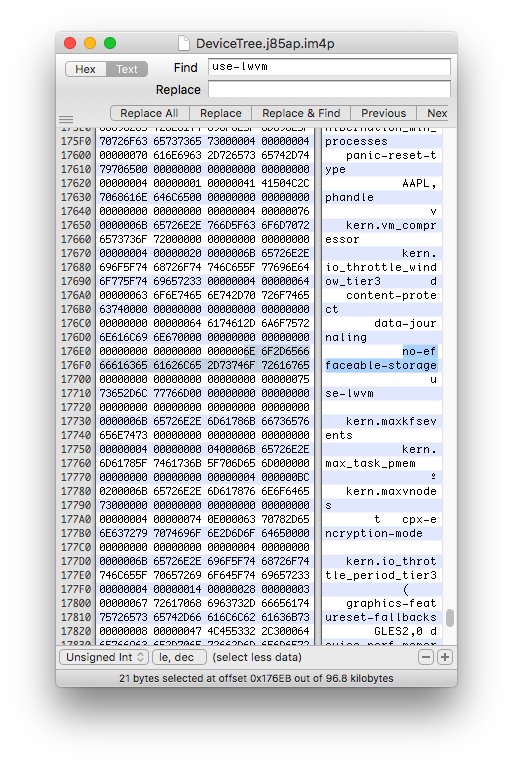
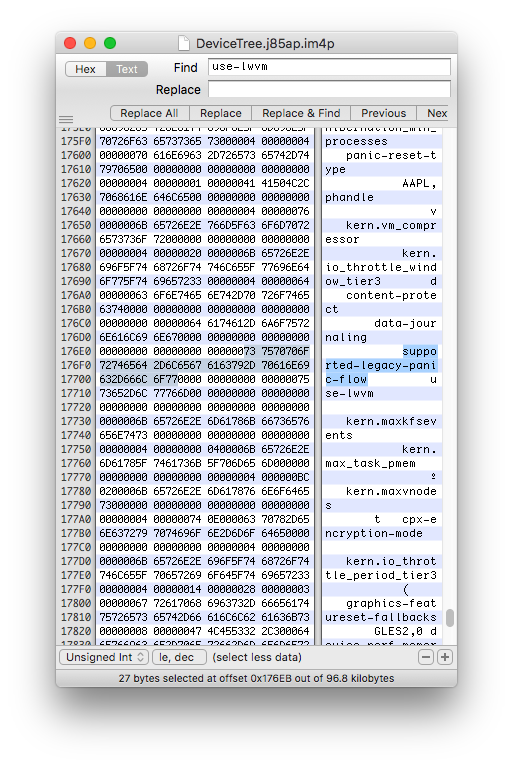
small update

diff --git a/dualboot/first-boot.html b/dualboot/first-boot.html
@@ -23,7 +23,7 @@ Otherwise, for booting the second iOS install, iBEC needs an arg which will poin
 Add rd=disk0s1s3 (or your new system partition disk) and -v args to iBEC:
 <p class="cli">iBoot64Patcher iBEC.dec iBEC.patched -b “rd=disk0s1s3 -v”</p>
 
-</br><img class="align" src="images/Image9.png"></br>
+</br><img class="align" src="images/Image10.png"></br>
 
 Now pack them back into img4: 
 
@@ -34,10 +34,10 @@ For booting the second OS, Sign stock kernelcache ,applelogo and trustcache (on 
 <p class="cli">img4 -i *.im4p -o *.img4 -M IM4M</p>
 
 Note: you can find trustcache name in BuildManifest.plist</br>
-</br><img class="align" src="images/Image10.png"></br>
+</br><img class="align" src="images/Image11.png"></br>
 
 </br>Pack devicetree into img4 with rdtr (RestoreDevicetree) tag. The devicetree needs this tag, otherwise iBEC will refuse to see it as valid:
-<p class="cli">img4 -i devicetree.raw -o devicetree.img4 -M IM4M -T rdtr</p>
+<p class="cli">img4 -i DeviceTree.* -o devicetree.img4 -M IM4M -T rdtr</p>
 
 Done!</br>
 
@@ -67,7 +67,7 @@ Send kernelcache and bootx:
 
 <h2>In the case of generating keybags: </h2>
 If you see “AppleKeyStore: disabling use of effaceable storage, using fake key”, in verbose output, you can reboot to first system.</br>
-<img class="align" src="images/Image11.png"></br>
+<img class="align" src="images/Image12.png"></br>
     
     Now mount disk0s1s3 and put keybagd in its original place:
     <p class="cli">mv /mnt1/usr/libexec/keybagd_bak /mnt1/usr/libexec/keybagd</p>

diff --git a/dualboot/making-ramdisk.html b/dualboot/making-ramdisk.html
@@ -35,14 +35,16 @@
 	
 	<p class="cli">img4tool -e -s *.shsh2 -m IM4M</p>
 
-Compress kernelcache back to lzss and pack it into img4:
+    Create a patch file: </br>
+    
+    <img src="images/Image5.png"> </br>
+
+    And apply it using img4:
 		
-    <p class="cli">relzss kcache.raw kcache.lzss</p>
-    <p class="cli">img4 -i kcache.lzss -o kernelcache.img4 -M IM4M -A -T rkrn</p>
-	
+    <p class="cli">img4 -i kernelcache.realease.* -o kernelcache.img4 -M IM4M -A -T rkrn -P patch_file</p>
 	
     <h2>Adding needed binaries</h2>
-    The custom ramdisk has to execute apfs_invert, so we need to make changes it's filesystem so it will execute our custom binary.
+    The custom ramdisk has to execute apfs_invert, so we need to make changes to it's filesystem so it will execute our custom binary.
     <p>Unpack original ramdisk into raw dmg:<p>
 	<p class="cli">img4 -i xxx.xxx.xxx.dmg -o ramdisk.dmg</p>
     And mount it:
@@ -62,7 +64,7 @@ Compress kernelcache back to lzss and pack it into img4:
 	
 	<p>If you did everything correctly ramdisk should boot and run apfs_invert (don’t forget to send trustcache on iOS 12+).</br>
 	
-    </br><img class="limit" src="images/Image5.jpeg"></br></br>
+    </br><img class="limit" src="images/Image6.jpeg"></br></br>
         <center>Next part → <a href="modifying-filesystem.html" class="link"></b>Modifying filesystem</a></center></br>
 </p>
 </div>

diff --git a/dualboot/no-effaceable-storage.html b/dualboot/no-effaceable-storage.html
@@ -13,9 +13,9 @@
     <p>If you choose to generate it, continue here.<p>
     <h3>Patching devicetree</h3>
     We have to add no-effaceable-storage property.</br>
-    <img class="align" src="images/Image7.png"></br>
+    <img class="align" src="images/Image8.png"></br>
         Check "use-lwvm" property and add no-effaceable-storage property above it.</br>
-        <img class="align" src="images/Image8.png"></br>
+        <img class="align" src="images/Image9.png"></br>
             I replaced “supported-legacy-panic-flow” instead of adding it, but it’s better adding it.</p>
 <h3>Adding fixkeybag</h3>
 <p>Thanks to @nyan_satan for this technique.

diff --git a/dualboot/modifying-filesystem.html b/dualboot/modifying-filesystem.html
@@ -10,7 +10,7 @@
 Modify fstab using nano:
 <p class="cli">cp -av /etc/fstab /mnt1/etc/fstab</p>
 <p class="cli">nano /mnt1/etc/fstab</p>
-<img class="align" src="images/Image6.png"></br>
+<img class="align" src="images/Image7.png"></br>
     Change disk0s1s1 to disk0s1s3 and disk0s1s2 to disk0s1s4. (or the new system and data partitions disks based on the device.)</br>
     Press CTRL-O to save and CTRL-X to exit.
     
